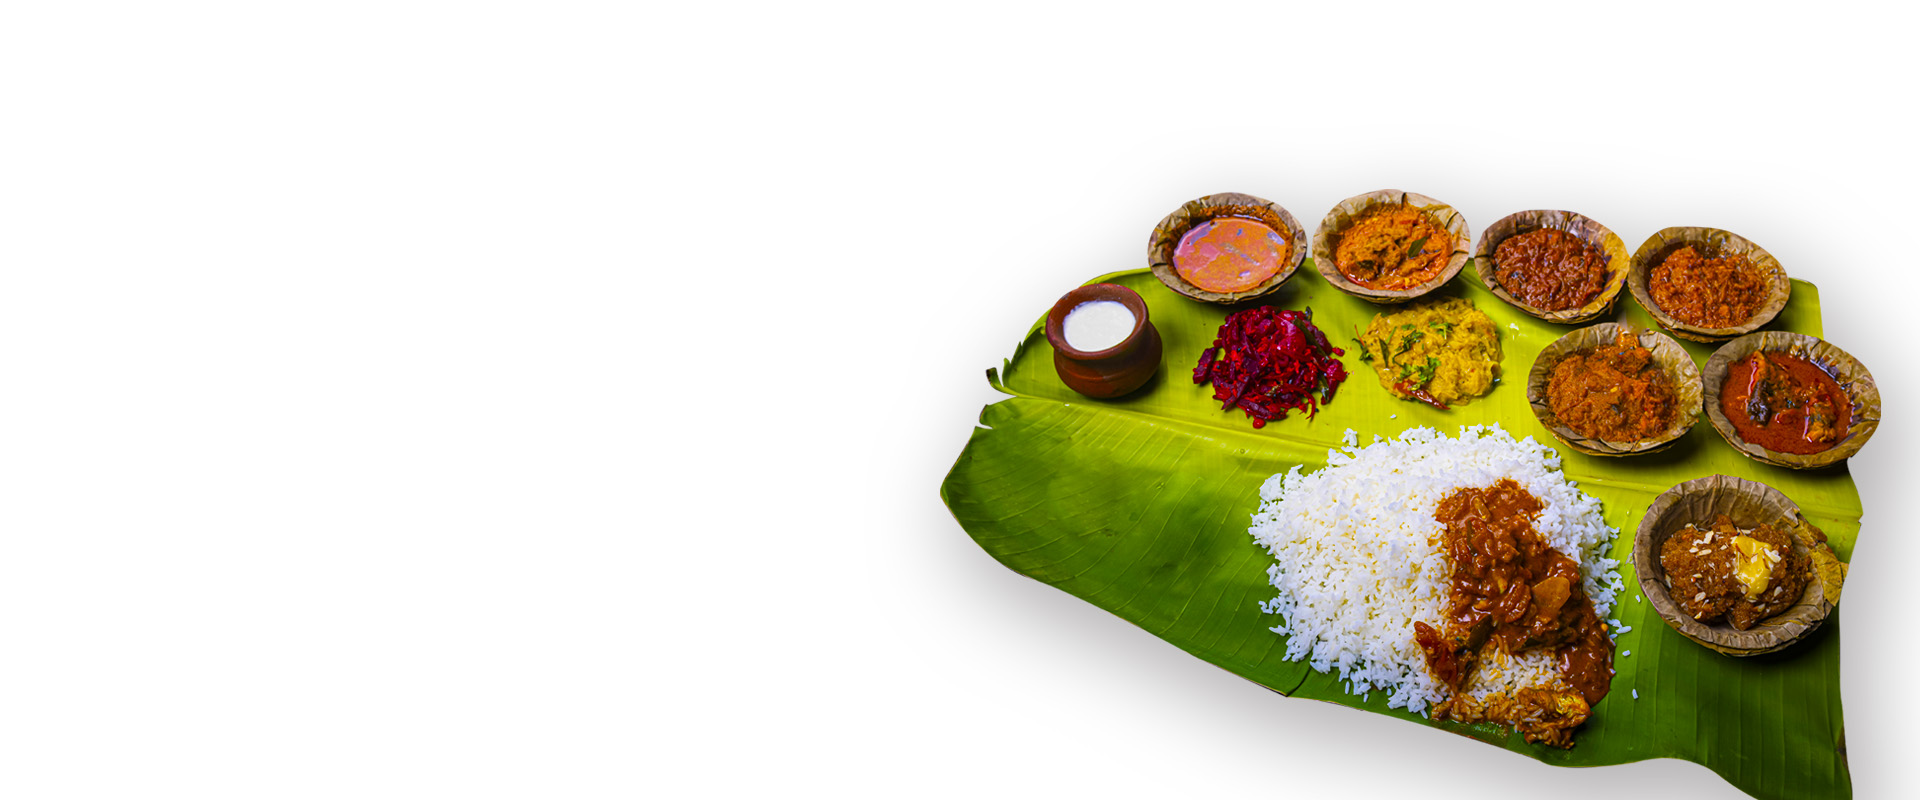
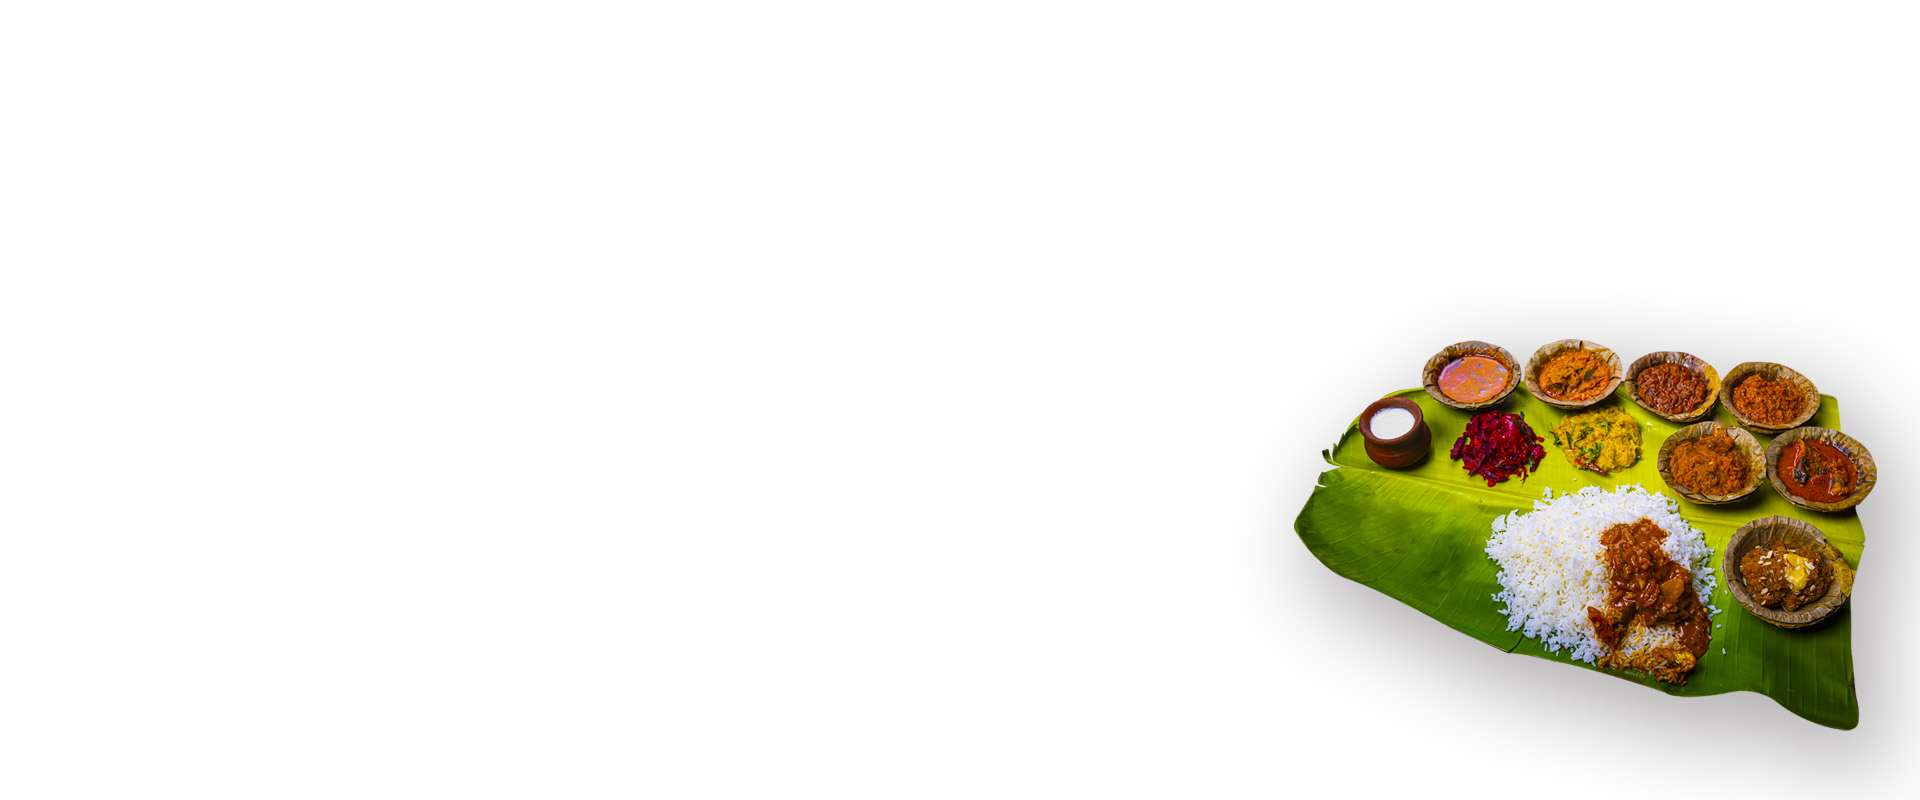
removed dish numbers

Changed region(s): [[0.4688, 0.2188, 1.0, 1.0]]

diff --git a/index.html b/index.html
@@ -194,10 +194,9 @@
                 <div class="single-slide animation-style-01 bg-1">
                     <div class="container">
                         <div class="slider-content">
-                            <h3>Have a great taste</h3>
-                            <h4>with fresh food.</h4>
+                            <h3>Get ready to taste </h3>
+                            <h4>authentic South Indian flavours.</h4>
                             <p style="color: black;">One delicious meal and you’ll start rethinking the beauty of life.
-                                Get ready to taste authentic South Indian flavours
                             </p>
                             <div class="munoz-btn-ps_left slide-btn">
                                 <a class="munoz-btn munoz-btn_dark" href="#">Contact Us</a>
@@ -209,10 +208,9 @@
                 <div class="single-slide animation-style-02 bg-2">
                     <div class="container">
                         <div class="slider-content">
-                            <h3>Have a great taste</h3>
-                            <h4>with fresh food.</h4>
-                            <p>One delicious meal and you’ll start rethinking the beauty of life.
-                                Get ready to taste authentic South Indian flavours</p>
+                            <h3>Experience the real taste of South Indian Cuisne</h3>
+
+                            <p>We serve authentic south Indian dishes that leaves your taste buds mesmerized.</p>
                             <div class="munoz-btn-ps_left slide-btn">
                                 <a class="munoz-btn munoz-btn_dark" href="#">Contact Us</a>
                             </div>
@@ -224,10 +222,9 @@
                 <div class="single-slide animation-style-02 bg-3">
                     <div class="container">
                         <div class="slider-content">
-                            <h3>Have a great taste</h3>
-                            <h4>with fresh food.</h4>
-                            <p>One delicious meal and you’ll start rethinking the beauty of life.
-                                Get ready to taste authentic South Indian flavours</p>
+                            <h3>Authentic flavours cooked by a celebrity chef</h3>
+
+                            <p>We are an exclusive authentic firewood South Indian kitchen</p>
                             <div class="munoz-btn-ps_left slide-btn">
                                 <a class="munoz-btn munoz-btn_dark" href="#">Contact Us</a>
                             </div>
@@ -239,10 +236,9 @@
                 <div class="single-slide animation-style-02 bg-4">
                     <div class="container">
                         <div class="slider-content">
-                            <h3>Have a great taste</h3>
-                            <h4>with fresh food.</h4>
-                            <p>One delicious meal and you’ll start rethinking the beauty of life.
-                                Get ready to taste authentic South Indian flavours</p>
+                            <h3>Hear from our customers. </h3>
+
+                            <p>Every customer walks out of this restaurant with a smiling face and a filled stomach.</p>
                             <div class="munoz-btn-ps_left slide-btn">
                                 <a class="munoz-btn munoz-btn_dark" href="#">Contact Us</a>
                             </div>
@@ -311,8 +307,8 @@
                                     <div class="product-content">
                                         <div class="product-desc_info">
 
-                                            <h3 class="product-name"><a href="javascript:void(0)">1</a>
-                                            </h3>
+                                            <!-- <h3 class="product-name"><a href="javascript:void(0)">1</a>
+                                            </h3> -->
 
                                         </div>
                                     </div>
@@ -332,8 +328,8 @@
                                     <div class="product-content">
                                         <div class="product-desc_info">
 
-                                            <h3 class="product-name"><a href="javascript:void(0)">2</a>
-                                            </h3>
+                                            <!-- <h3 class="product-name"><a href="javascript:void(0)">2</a>
+                                            </h3> -->
 
                                         </div>
                                     </div>
@@ -353,8 +349,8 @@
                                     <div class="product-content">
                                         <div class="product-desc_info">
 
-                                            <h3 class="product-name"><a href="javascript:void(0)">3</a>
-                                            </h3>
+                                            <!-- <h3 class="product-name"><a href="javascript:void(0)">3</a>
+                                            </h3> -->
 
                                         </div>
                                     </div>
@@ -374,8 +370,8 @@
                                     <div class="product-content">
                                         <div class="product-desc_info">
 
-                                            <h3 class="product-name"><a href="javascript:void(0)">4</a>
-                                            </h3>
+                                            <!-- <h3 class="product-name"><a href="javascript:void(0)">4</a>
+                                            </h3> -->
 
                                         </div>
                                     </div>
@@ -395,8 +391,8 @@
                                     <div class="product-content">
                                         <div class="product-desc_info">
 
-                                            <h3 class="product-name"><a href="javascript:void(0)">5</a>
-                                            </h3>
+                                            <!-- <h3 class="product-name"><a href="javascript:void(0)">5</a>
+                                            </h3> -->
 
                                         </div>
                                     </div>
@@ -955,9 +951,9 @@
 
         <div class="munoz-section_area">
             <h3 class="section-title"> Welcome to Chef Palani Murugan's Culinary World</h3>
-                <h5 class="short-desc" style="font-weight: 500;">
-                    A celebrity chef who has carved his own space in the culinary world.
-                    </h5>
+            <h5 class="short-desc" style="font-weight: 500;">
+                A celebrity chef who has carved his own space in the culinary world.
+            </h5>
         </div>
 
 
